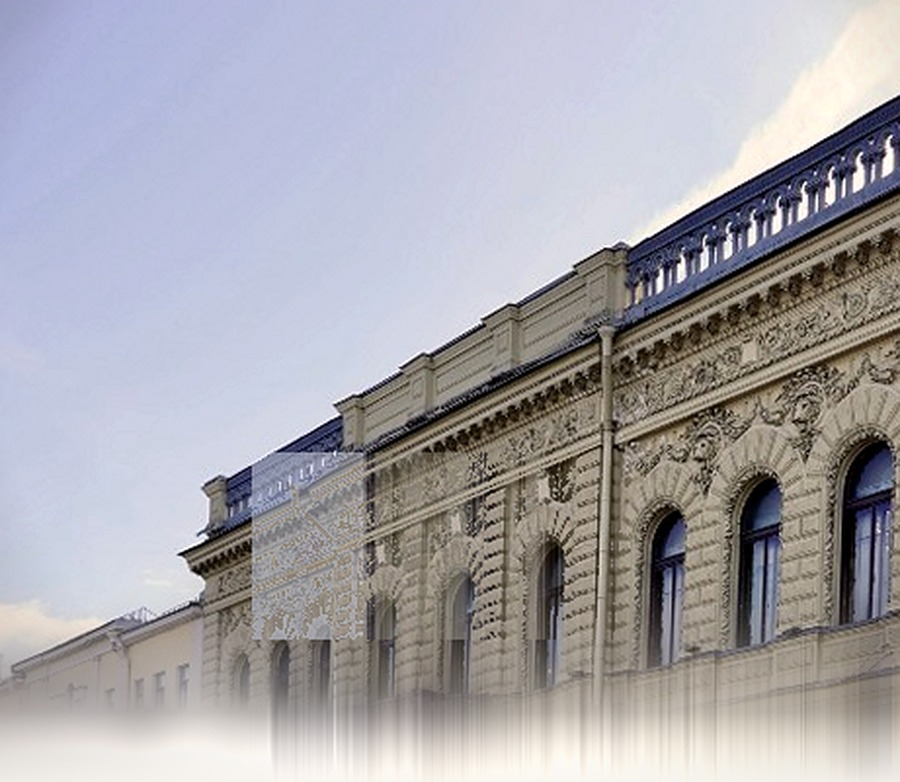
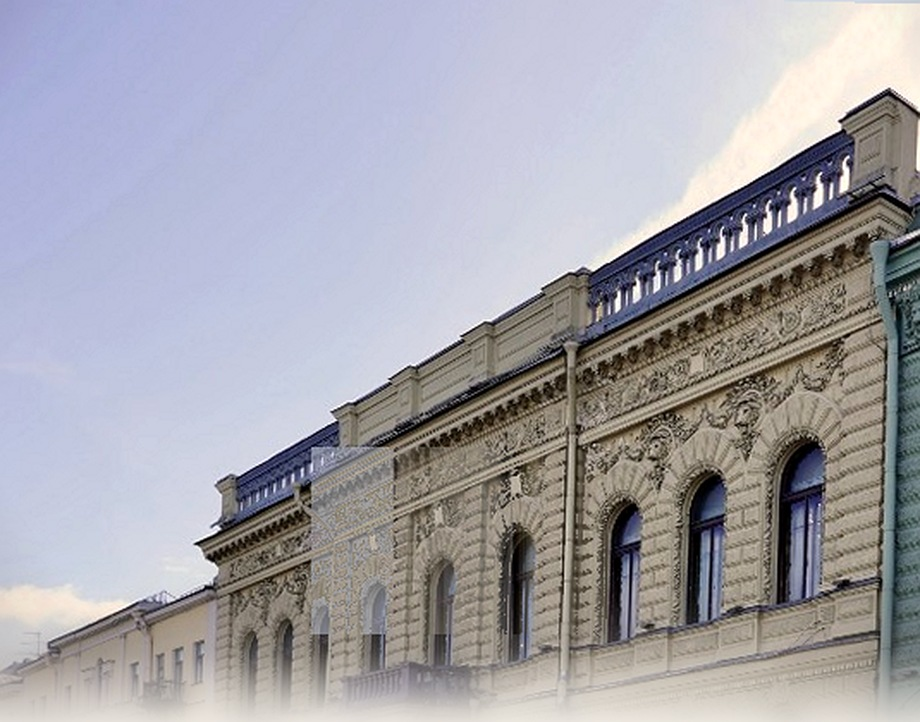
Highlight ceremony time, refresh palace photo, and set dress palette
Make the calendar note more prominent, replace the venue photo with a clearer retouch, and use the emerald–marsala dress-code palette across the invitation.

diff --git a/src/styles/components.css b/src/styles/components.css
@@ -810,9 +810,19 @@
   animation: beat 1.8s ease-in-out infinite;
 }
 .calendar__note {
-  margin: 14px 0 0;
-  font-family: var(--font-script);
-  font-size: 1.25rem;
+  display: inline-block;
+  width: 100%;
+  margin: 20px 0 0;
+  padding: 12px 14px;
+  border-radius: 999px;
+  background: color-mix(in srgb, var(--accent) 14%, transparent);
+  box-shadow: inset 0 0 0 1px color-mix(in srgb, var(--accent) 28%, transparent);
+  font-family: var(--font-display);
+  font-size: clamp(1.05rem, 4.2vw, 1.25rem);
+  font-weight: 600;
+  letter-spacing: 0.04em;
+  line-height: 1.25;
+  text-align: center;
   color: var(--accent);
 }
 
@@ -960,9 +970,9 @@
   color: var(--accent);
 }
 .place__art--photo {
-  width: min(100%, 300px);
+  width: 100%;
   overflow: hidden;
-  border-radius: 6px;
+  border-radius: 8px;
   line-height: 0;
   box-shadow: 0 10px 28px rgba(40, 28, 18, 0.12);
 }
@@ -971,8 +981,8 @@
   width: 100%;
   height: auto;
   object-fit: cover;
-  object-position: center 35%;
-  aspect-ratio: 5 / 4;
+  object-position: center 30%;
+  aspect-ratio: 4 / 3;
 }
 .place__art .palace__wall {
   opacity: 0.22;
@@ -1120,21 +1130,21 @@
   display: flex;
   flex-wrap: wrap;
   justify-content: center;
-  gap: 14px 12px;
+  gap: 16px 14px;
   margin: 0 auto;
   padding: 0;
-  max-width: 360px;
+  max-width: 380px;
   list-style: none;
 }
 .dress__swatch {
   display: flex;
   flex-direction: column;
   align-items: center;
-  width: 62px;
+  width: 64px;
 }
 .dress__dot {
-  width: 54px;
-  height: 54px;
+  width: 56px;
+  height: 56px;
   border-radius: 50%;
   background: var(--c);
   box-shadow:

diff --git a/src/data/wedding.ts b/src/data/wedding.ts
@@ -61,6 +61,15 @@ export const wedding = {
     note: '',
   },
 
+  /** Dress-code palette shown in the invitation. */
+  palette: [
+    { color: '#123f3a', name: 'изумруд' },
+    { color: '#2e6b5f', name: 'малахит' },
+    { color: '#d9b56a', name: 'золото' },
+    { color: '#e8dcc0', name: 'шампань' },
+    { color: '#6b2737', name: 'марсала' },
+  ],
+
   details: [
     {
       title: 'Подарки',

diff --git a/src/components/sections/DressCodeSection.vue b/src/components/sections/DressCodeSection.vue
@@ -12,7 +12,7 @@ defineProps<{ theme: ThemeDef }>()
     <p v-reveal class="dress__text">{{ wedding.dressCode.text }}</p>
     <ul class="dress__palette">
       <li
-        v-for="(c, i) in theme.palette"
+        v-for="(c, i) in wedding.palette"
         :key="c.color"
         v-reveal="'zoom'"
         class="dress__swatch"
